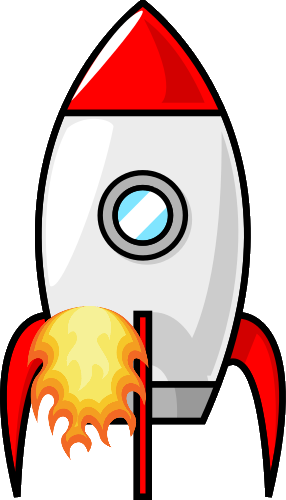
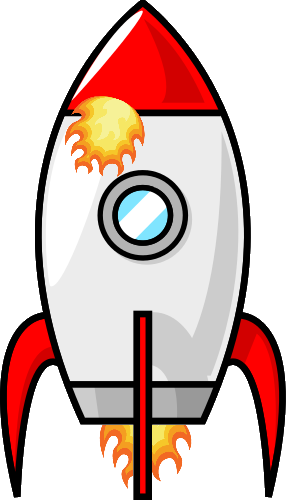
Slightly enhanced the game.

Changed region(s): [[0.0839, 0.6, 0.5315, 0.99], [0.2238, 0.18, 0.5035, 0.36], [0.5315, 0.84, 0.6713, 0.96]]

diff --git a/views/feedback/FeedbackView.js b/views/feedback/FeedbackView.js
@@ -189,6 +189,8 @@ class FeedbackView extends View
 
 
         console.log ("feedback", feedback);
+        var whoReviewed = feedback.reviewer_role;
+
 
 		var issues = [];
 
@@ -198,7 +200,6 @@ class FeedbackView extends View
 			var fileReview = review[filename];
 			for (var bitID in fileReview)
 			{
-				console.log (fileReview[bitID].review_type);
 				if (fileReview[bitID].review_type === "Issue")
 				{
 					var issue = {};
@@ -224,18 +225,26 @@ class FeedbackView extends View
 
 		//Do prep here
 
-		this.startCountdown(shipFate, issues, closeButtons)
+		this.startCountdown(shipFate, issues, closeButtons, whoReviewed)
 
 
 	}
 
-	startCountdown(shipFate, issues, closeButtons)
+	startCountdown(shipFate, issues, closeButtons, whoReviewed)
 	{
 		var that = this;
 		var messageLog = document.getElementById("messages-window");
 
 		var prestartMessage = document.createElement("LABEL");
-		prestartMessage.innerHTML = "The launch of the spaceship will commence in:";
+
+		if (whoReviewed === "student"){
+			prestartMessage.innerHTML = "The spaceship simulation will start in:";
+		}
+
+		else
+		{
+			prestartMessage.innerHTML = "The launch of the spaceship will commence in:";
+		}
 
 		messageLog.appendChild(prestartMessage);
 
@@ -252,7 +261,7 @@ class FeedbackView extends View
 				if (timeLeft === -1)
 				{
 					clearInterval(timer);
-					that.rocketFlight(shipFate,issues, messageLog, closeButtons)
+					that.rocketFlight(shipFate,issues, messageLog, closeButtons, whoReviewed)
                 }
 
 			}, 1000);
@@ -270,11 +279,10 @@ class FeedbackView extends View
 
 	}
 
-	rocketFlight(shipFate,issues, messageLog, closeButtons)
+	rocketFlight(shipFate,issues, messageLog, closeButtons, whoReviewed)
 	{
 		var rocket = document.getElementById("spaceship-span");
 		var rocketSprite = document.getElementById("rocket-image");
-
 
 
 		if (shipFate === "explode")
@@ -283,11 +291,30 @@ class FeedbackView extends View
 			rocketSprite.src="resources/images/explosion.png";
 			rocketSprite.classList.remove("rocket-image");
 			rocketSprite.classList.add("explosion-image");
+
+			if(whoReviewed === "student")
+			{
+				var lastmessage = document.createElement("LABEL");
+				lastmessage.innerHTML = "Simulation was cancelled due to a severe number of breaches";
+				lastmessage.style.color = "red";
+				messageLog.appendChild(document.createElement("BR"));
+				messageLog.appendChild(lastmessage)
+			}
+
+			else{
+				var lastmessage = document.createElement("LABEL");
+				lastmessage.innerHTML = "Contact was lost.  No signal from the ship.  We lost it.";
+				lastmessage.style.color = "red";
+				messageLog.appendChild(document.createElement("BR"));
+				messageLog.appendChild(lastmessage)
+			}
+
 		}
 
 		else
 		{
 			rocket.classList.add("fly");
+			rocketSprite.src="resources/images/spaceship-flying.png";
 
 			var explosionCount = 0;
 			var flyStages = 0;
@@ -321,11 +348,22 @@ class FeedbackView extends View
 							rocketSprite.classList.add("explosion-image");
 							rocketSprite.classList.remove("rocket-image");
 
-							var lastmessage = document.createElement("LABEL");
-							lastmessage.innerHTML = "Ship was destroyed" ;
-							lastmessage.style.color = "red";
-							messageLog.appendChild(document.createElement("BR"));
-							messageLog.appendChild(lastmessage)
+							if(whoReviewed === "student")
+							{
+								var lastmessage = document.createElement("LABEL");
+								lastmessage.innerHTML = "Simulation has ended with failure.";
+								lastmessage.style.color = "red";
+								messageLog.appendChild(document.createElement("BR"));
+								messageLog.appendChild(lastmessage)
+							}
+
+							else{
+								var lastmessage = document.createElement("LABEL");
+								lastmessage.innerHTML = "Contact was lost.  No signal from the ship.  We lost it.";
+								lastmessage.style.color = "red";
+								messageLog.appendChild(document.createElement("BR"));
+								messageLog.appendChild(lastmessage)
+							}
 						}
 					}
 
@@ -335,11 +373,22 @@ class FeedbackView extends View
 
 							rocket.classList.add("flyOff");
 
-							var lastmessage = document.createElement("LABEL");
-							lastmessage.innerHTML = "Launch is successful" ;
-							lastmessage.style.color = "white";
-							messageLog.appendChild(document.createElement("BR"));
-							messageLog.appendChild(lastmessage)
+							if(whoReviewed === "student")
+							{
+								var lastmessage = document.createElement("LABEL");
+								lastmessage.innerHTML = "Simulation has ended with success" ;
+								lastmessage.style.color = "white";
+								messageLog.appendChild(document.createElement("BR"));
+								messageLog.appendChild(lastmessage)
+							}
+							else
+							{
+								var lastmessage = document.createElement("LABEL");
+								lastmessage.innerHTML = "Spaceship have passed the atmosphere and successfully goes to an orbit" ;
+								lastmessage.style.color = "white";
+								messageLog.appendChild(document.createElement("BR"));
+								messageLog.appendChild(lastmessage)
+							}
 						}
 					}
 

diff --git a/modals/rocket-game.html b/modals/rocket-game.html
@@ -12,6 +12,7 @@
         <span class="spaceship-span" id = "spaceship-span">
             <img src="resources\images\spaceship.png" id="rocket-image" class="rocket-image">
         </span>
+
     </span>
 
 </div>
